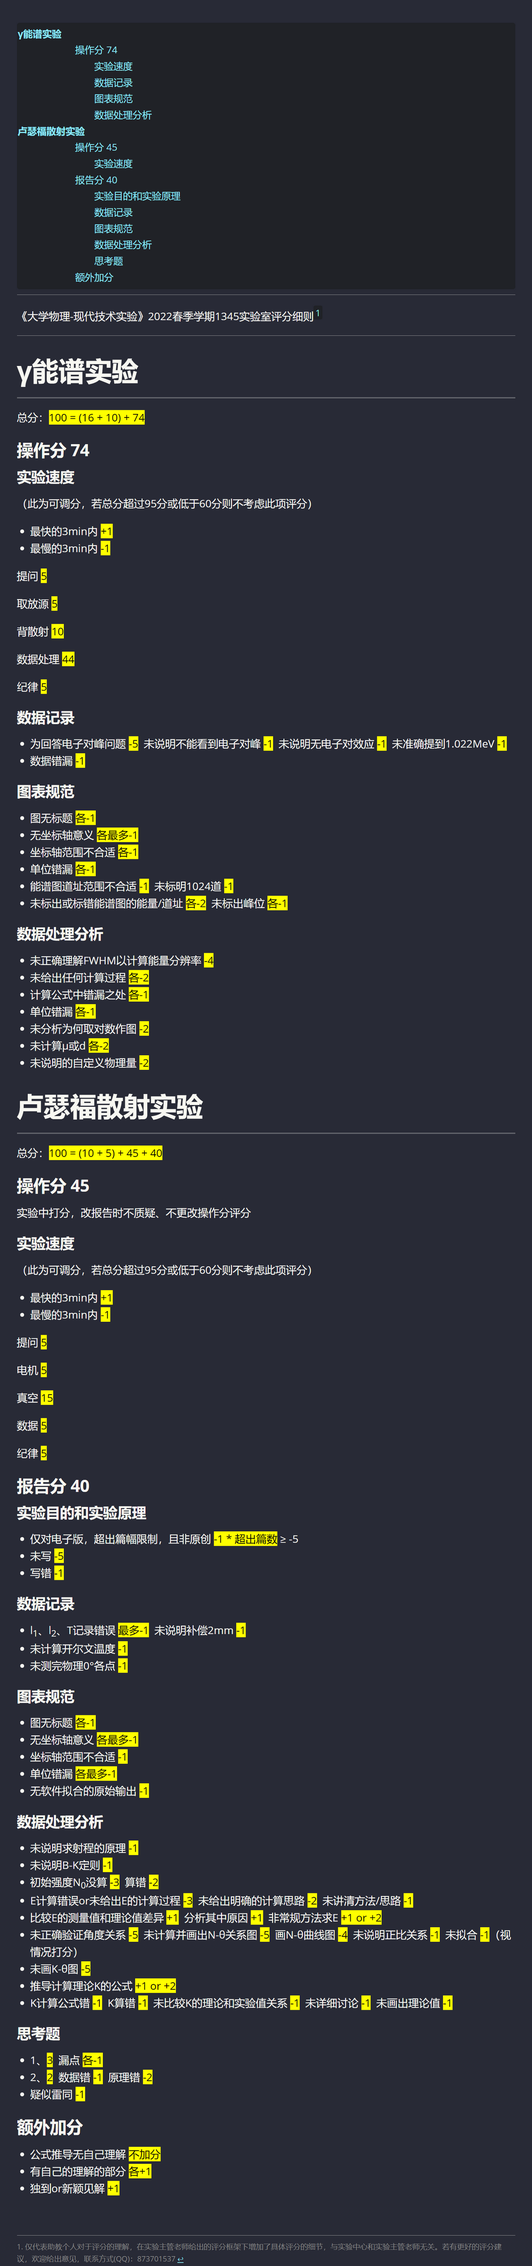
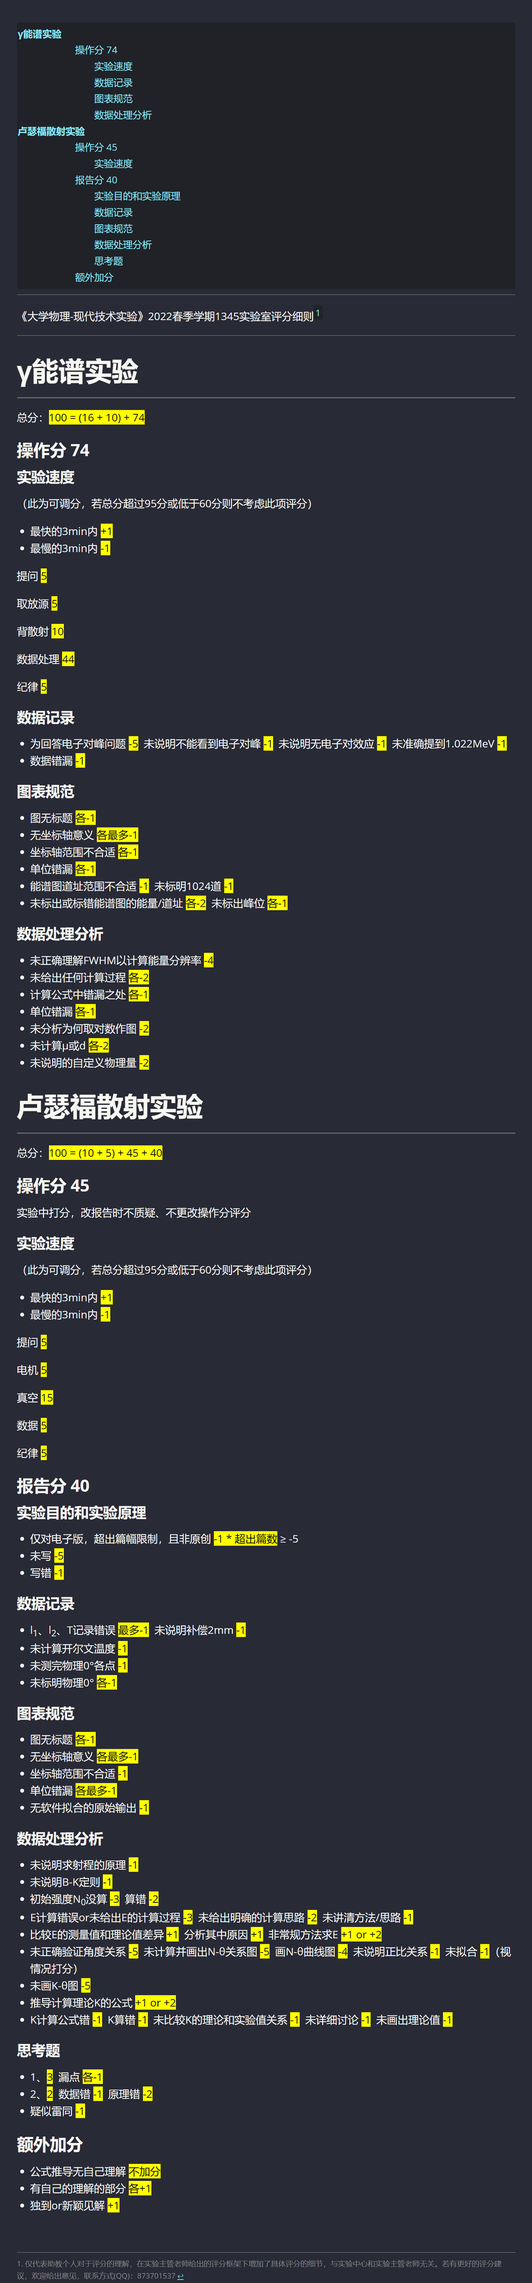
edit yezirui 2022 5 19 update details

diff --git a/ScoringRule-1345-2022-y.html b/ScoringRule-1345-2022-y.html
@@ -1,5 +1,5 @@
 <!doctype html>
-<html style='font-size:20px !important'>
+<html>
 <head>
 <meta charset='UTF-8'><meta name='viewport' content='width=device-width initial-scale=1'>
 
@@ -2041,10 +2041,10 @@ kbd {
 }
 
 
-</style><title>ScoringRule-1345-2022-y</title>
+</style><title>Readme</title>
 </head>
 <body class='typora-export os-windows typora-export-show-outline typora-export-no-collapse-outline'><div class='typora-export-content'>
-<div class="typora-export-sidebar"><div class="outline-content"><li class="outline-item-wrapper outline-h1"><div class="outline-item"><span class="outline-expander"></span><a class="outline-label" href="#γ能谱实验">γ能谱实验</a></div><ul class="outline-children"><li class="outline-item-wrapper outline-h4"><div class="outline-item"><span class="outline-expander"></span><a class="outline-label" href="#操作分-74">操作分 74</a></div><ul class="outline-children"><li class="outline-item-wrapper outline-h5"><div class="outline-item"><span class="outline-expander"></span><a class="outline-label" href="#实验速度-1">实验速度</a></div><ul class="outline-children"></ul></li><li class="outline-item-wrapper outline-h5"><div class="outline-item"><span class="outline-expander"></span><a class="outline-label" href="#数据记录-1">数据记录</a></div><ul class="outline-children"></ul></li><li class="outline-item-wrapper outline-h5"><div class="outline-item"><span class="outline-expander"></span><a class="outline-label" href="#图表规范-1">图表规范</a></div><ul class="outline-children"></ul></li><li class="outline-item-wrapper outline-h5"><div class="outline-item"><span class="outline-expander"></span><a class="outline-label" href="#数据处理分析-1">数据处理分析</a></div><ul class="outline-children"></ul></li></ul></li></ul></li><li class="outline-item-wrapper outline-h1"><div class="outline-item"><span class="outline-expander"></span><a class="outline-label" href="#卢瑟福散射实验">卢瑟福散射实验</a></div><ul class="outline-children"><li class="outline-item-wrapper outline-h4"><div class="outline-item"><span class="outline-expander"></span><a class="outline-label" href="#操作分-45">操作分 45</a></div><ul class="outline-children"><li class="outline-item-wrapper outline-h5"><div class="outline-item"><span class="outline-expander"></span><a class="outline-label" href="#实验速度-2">实验速度</a></div><ul class="outline-children"></ul></li></ul></li><li class="outline-item-wrapper outline-h4"><div class="outline-item"><span class="outline-expander"></span><a class="outline-label" href="#报告分-40">报告分 40</a></div><ul class="outline-children"><li class="outline-item-wrapper outline-h5"><div class="outline-item"><span class="outline-expander"></span><a class="outline-label" href="#实验目的和实验原理">实验目的和实验原理</a></div><ul class="outline-children"></ul></li><li class="outline-item-wrapper outline-h5"><div class="outline-item"><span class="outline-expander"></span><a class="outline-label" href="#数据记录-2">数据记录</a></div><ul class="outline-children"></ul></li><li class="outline-item-wrapper outline-h5"><div class="outline-item"><span class="outline-expander"></span><a class="outline-label" href="#图表规范-2">图表规范</a></div><ul class="outline-children"></ul></li><li class="outline-item-wrapper outline-h5"><div class="outline-item"><span class="outline-expander"></span><a class="outline-label" href="#数据处理分析-2">数据处理分析</a></div><ul class="outline-children"></ul></li><li class="outline-item-wrapper outline-h5"><div class="outline-item"><span class="outline-expander"></span><a class="outline-label" href="#思考题">思考题</a></div><ul class="outline-children"></ul></li></ul></li><li class="outline-item-wrapper outline-h4"><div class="outline-item"><span class="outline-expander"></span><a class="outline-label" href="#额外加分">额外加分</a></div><ul class="outline-children"></ul></li></ul></li></div></div><div id='write'  class=''><div class='md-toc' mdtype='toc'><p class="md-toc-content" role="list"><span role="listitem" class="md-toc-item md-toc-h1" data-ref="n5"><a class="md-toc-inner" href="#γ能谱实验">γ能谱实验</a></span><span role="listitem" class="md-toc-item md-toc-h4" data-ref="n303"><a class="md-toc-inner" href="#操作分-74">操作分 74</a></span><span role="listitem" class="md-toc-item md-toc-h5" data-ref="n305"><a class="md-toc-inner" href="#实验速度-1">实验速度</a></span><span role="listitem" class="md-toc-item md-toc-h5" data-ref="n326"><a class="md-toc-inner" href="#数据记录-1">数据记录</a></span><span role="listitem" class="md-toc-item md-toc-h5" data-ref="n334"><a class="md-toc-inner" href="#图表规范-1">图表规范</a></span><span role="listitem" class="md-toc-item md-toc-h5" data-ref="n346"><a class="md-toc-inner" href="#数据处理分析-1">数据处理分析</a></span><span role="listitem" class="md-toc-item md-toc-h1" data-ref="n7"><a class="md-toc-inner" href="#卢瑟福散射实验">卢瑟福散射实验</a></span><span role="listitem" class="md-toc-item md-toc-h4" data-ref="n9"><a class="md-toc-inner" href="#操作分-45">操作分 45</a></span><span role="listitem" class="md-toc-item md-toc-h5" data-ref="n10"><a class="md-toc-inner" href="#实验速度-2">实验速度</a></span><span role="listitem" class="md-toc-item md-toc-h4" data-ref="n21"><a class="md-toc-inner" href="#报告分-40">报告分 40</a></span><span role="listitem" class="md-toc-item md-toc-h5" data-ref="n22"><a class="md-toc-inner" href="#实验目的和实验原理">实验目的和实验原理</a></span><span role="listitem" class="md-toc-item md-toc-h5" data-ref="n30"><a class="md-toc-inner" href="#数据记录-2">数据记录</a></span><span role="listitem" class="md-toc-item md-toc-h5" data-ref="n38"><a class="md-toc-inner" href="#图表规范-2">图表规范</a></span><span role="listitem" class="md-toc-item md-toc-h5" data-ref="n48"><a class="md-toc-inner" href="#数据处理分析-2">数据处理分析</a></span><span role="listitem" class="md-toc-item md-toc-h5" data-ref="n66"><a class="md-toc-inner" href="#思考题">思考题</a></span><span role="listitem" class="md-toc-item md-toc-h4" data-ref="n74"><a class="md-toc-inner" href="#额外加分">额外加分</a></span></p></div><hr /><p><span>《大学物理-现代技术实验》2022春季学期1345实验室评分细则</span><sup class='md-footnote'><a href='#dfref-footnote-1' name='ref-footnote-1'>1</a></sup></p><hr /><h1 id='γ能谱实验'><span>γ能谱实验</span></h1><p><span>总分：</span><mark><span>100 = (16 + 10) + 74</span></mark></p><h4 id='操作分-74'><span>操作分 74</span></h4><h5 id='实验速度-1'><span>实验速度</span></h5><p><span>（此为可调分，若总分超过95分或低于60分则不考虑此项评分）</span></p><ul><li><span>最快的3min内 </span><mark><span>+1</span></mark></li><li><span>最慢的3min内 </span><mark><span>-1</span></mark></li></ul><p><span>提问 </span><mark><span>5</span></mark></p><p><span>取放源 </span><mark><span>5</span></mark></p><p><span>背散射 </span><mark><span>10</span></mark></p><p><span>数据处理 </span><mark><span>44</span></mark></p><p><span>纪律 </span><mark><span>5</span></mark></p><h5 id='数据记录-1'><span>数据记录</span></h5><ul><li><span>为回答电子对峰问题 </span><mark><span>-5</span></mark><span>  未说明不能看到电子对峰 </span><mark><span>-1</span></mark><span>  未说明无电子对效应 </span><mark><span>-1</span></mark><span>  未准确提到1.022MeV </span><mark><span>-1</span></mark></li><li><span>数据错漏 </span><mark><span>-1</span></mark></li></ul><h5 id='图表规范-1'><span>图表规范</span></h5><ul><li><span>图无标题 </span><mark><span>各-1</span></mark></li><li><span>无坐标轴意义 </span><mark><span>各最多-1</span></mark></li><li><span>坐标轴范围不合适 </span><mark><span>各-1</span></mark></li><li><span>单位错漏 </span><mark><span>各-1</span></mark></li><li><span>能谱图道址范围不合适 </span><mark><span>-1</span></mark><span>  未标明1024道 </span><mark><span>-1</span></mark></li><li><span>未标出或标错能谱图的能量/道址 </span><mark><span>各-2</span></mark><span>  未标出峰位 </span><mark><span>各-1</span></mark></li></ul><h5 id='数据处理分析-1'><span>数据处理分析</span></h5><ul><li><span>未正确理解FWHM以计算能量分辨率 </span><mark><span>-4</span></mark></li><li><span>未给出任何计算过程 </span><mark><span>各-2</span></mark></li><li><span>计算公式中错漏之处 </span><mark><span>各-1</span></mark></li><li><span>单位错漏 </span><mark><span>各-1</span></mark></li><li><span>未分析为何取对数作图 </span><mark><span>-2</span></mark></li><li><span>未计算μ或d </span><mark><span>各-2</span></mark></li><li><span>未说明的自定义物理量 </span><mark><span>-2</span></mark></li></ul><h1 id='卢瑟福散射实验'><span>卢瑟福散射实验</span></h1><p><span>总分：</span><mark><span>100 = (10 + 5) + 45 + 40</span></mark></p><h4 id='操作分-45'><span>操作分 45</span></h4><p><span>实验中打分，改报告时不质疑、不更改操作分评分</span></p><h5 id='实验速度-2'><span>实验速度</span></h5><p><span>（此为可调分，若总分超过95分或低于60分则不考虑此项评分）</span></p><ul><li><span>最快的3min内 </span><mark><span>+1</span></mark></li><li><span>最慢的3min内 </span><mark><span>-1</span></mark></li></ul><p><span>提问 </span><mark><span>5</span></mark></p><p><span>电机 </span><mark><span>5</span></mark></p><p><span>真空 </span><mark><span>15</span></mark></p><p><span>数据 </span><mark><span>5</span></mark></p><p><span>纪律 </span><mark><span>5</span></mark></p><h4 id='报告分-40'><span>报告分 40</span></h4><h5 id='实验目的和实验原理'><span>实验目的和实验原理</span></h5><ul><li><span>仅对电子版，超出篇幅限制，且非原创 </span><mark><span>-1 * 超出篇数</span></mark><span> ≥ -5</span></li><li><span>未写 </span><mark><span>-5</span></mark></li><li><span>写错 </span><mark><span>-1</span></mark></li></ul><h5 id='数据记录-2'><span>数据记录</span></h5><ul><li><span>l</span><sub><span>1</span></sub><span>、l</span><sub><span>2</span></sub><span>、T记录错误 </span><mark><span>最多-1</span></mark><span>  未说明补偿2mm </span><mark><span>-1</span></mark></li><li><span>未计算开尔文温度 </span><mark><span>-1</span></mark></li><li><span>未测完物理0°各点 </span><mark><span>-1</span></mark></li></ul><h5 id='图表规范-2'><span>图表规范</span></h5><ul><li><span>图无标题 </span><mark><span>各-1</span></mark></li><li><span>无坐标轴意义 </span><mark><span>各最多-1</span></mark></li><li><span>坐标轴范围不合适 </span><mark><span>-1</span></mark></li><li><span>单位错漏 </span><mark><span>各最多-1</span></mark></li><li><span>无软件拟合的原始输出 </span><mark><span>-1</span></mark></li></ul><h5 id='数据处理分析-2'><span>数据处理分析</span></h5><ul><li><span>未说明求射程的原理 </span><mark><span>-1</span></mark></li><li><span>未说明B-K定则 </span><mark><span>-1</span></mark></li><li><span>初始强度N</span><sub><span>0</span></sub><span>没算 </span><mark><span>-3</span></mark><span>  算错 </span><mark><span>-2</span></mark></li><li><span>E计算错误or未给出E的计算过程 </span><mark><span>-3</span></mark><span>  未给出明确的计算思路 </span><mark><span>-2</span></mark><span>  未讲清方法/思路 </span><mark><span>-1</span></mark></li><li><span>比较E的测量值和理论值差异 </span><mark><span>+1</span></mark><span>  分析其中原因 </span><mark><span>+1</span></mark><span>  非常规方法求E </span><mark><span>+1 or +2</span></mark></li><li><span>未正确验证角度关系 </span><mark><span>-5</span></mark><span>  未计算并画出N-θ关系图 </span><mark><span>-5</span></mark><span>  画N-θ曲线图 </span><mark><span>-4</span></mark><span>  未说明正比关系 </span><mark><span>-1</span></mark><span>  未拟合 </span><mark><span>-1</span></mark><span>（视情况打分）</span></li><li><span>未画K-θ图 </span><mark><span>-5</span></mark></li><li><span>推导计算理论K的公式 </span><mark><span>+1 or +2</span></mark></li><li><span>K计算公式错 </span><mark><span>-1</span></mark><span>  K算错 </span><mark><span>-1</span></mark><span>  未比较K的理论和实验值关系 </span><mark><span>-1</span></mark><span>  未详细讨论 </span><mark><span>-1</span></mark><span>  未画出理论值 </span><mark><span>-1</span></mark></li></ul><h5 id='思考题'><span>思考题</span></h5><ul><li><span>1、</span><mark><span>3</span></mark><span>  漏点 </span><mark><span>各-1</span></mark></li><li><span>2、</span><mark><span>2</span></mark><span>  数据错 </span><mark><span>-1</span></mark><span>  原理错 </span><mark><span>-2</span></mark></li><li><span>疑似雷同 </span><mark><span>-1</span></mark></li></ul><h4 id='额外加分'><span>额外加分</span></h4><ul><li><span>公式推导无自己理解 </span><mark><span>不加分</span></mark></li><li><span>有自己的理解的部分 </span><mark><span>各+1</span></mark></li><li><span>独到or新颖见解 </span><mark><span>+1</span></mark></li></ul><p>&nbsp;</p><div class='footnotes-area'  ><hr/>
+<div class="typora-export-sidebar"><div class="outline-content"><li class="outline-item-wrapper outline-h1"><div class="outline-item"><span class="outline-expander"></span><a class="outline-label" href="#γ能谱实验">γ能谱实验</a></div><ul class="outline-children"><li class="outline-item-wrapper outline-h4"><div class="outline-item"><span class="outline-expander"></span><a class="outline-label" href="#操作分-74">操作分 74</a></div><ul class="outline-children"><li class="outline-item-wrapper outline-h5"><div class="outline-item"><span class="outline-expander"></span><a class="outline-label" href="#实验速度-1">实验速度</a></div><ul class="outline-children"></ul></li><li class="outline-item-wrapper outline-h5"><div class="outline-item"><span class="outline-expander"></span><a class="outline-label" href="#数据记录-1">数据记录</a></div><ul class="outline-children"></ul></li><li class="outline-item-wrapper outline-h5"><div class="outline-item"><span class="outline-expander"></span><a class="outline-label" href="#图表规范-1">图表规范</a></div><ul class="outline-children"></ul></li><li class="outline-item-wrapper outline-h5"><div class="outline-item"><span class="outline-expander"></span><a class="outline-label" href="#数据处理分析-1">数据处理分析</a></div><ul class="outline-children"></ul></li></ul></li></ul></li><li class="outline-item-wrapper outline-h1"><div class="outline-item"><span class="outline-expander"></span><a class="outline-label" href="#卢瑟福散射实验">卢瑟福散射实验</a></div><ul class="outline-children"><li class="outline-item-wrapper outline-h4"><div class="outline-item"><span class="outline-expander"></span><a class="outline-label" href="#操作分-45">操作分 45</a></div><ul class="outline-children"><li class="outline-item-wrapper outline-h5"><div class="outline-item"><span class="outline-expander"></span><a class="outline-label" href="#实验速度-2">实验速度</a></div><ul class="outline-children"></ul></li></ul></li><li class="outline-item-wrapper outline-h4"><div class="outline-item"><span class="outline-expander"></span><a class="outline-label" href="#报告分-40">报告分 40</a></div><ul class="outline-children"><li class="outline-item-wrapper outline-h5"><div class="outline-item"><span class="outline-expander"></span><a class="outline-label" href="#实验目的和实验原理">实验目的和实验原理</a></div><ul class="outline-children"></ul></li><li class="outline-item-wrapper outline-h5"><div class="outline-item"><span class="outline-expander"></span><a class="outline-label" href="#数据记录-2">数据记录</a></div><ul class="outline-children"></ul></li><li class="outline-item-wrapper outline-h5"><div class="outline-item"><span class="outline-expander"></span><a class="outline-label" href="#图表规范-2">图表规范</a></div><ul class="outline-children"></ul></li><li class="outline-item-wrapper outline-h5"><div class="outline-item"><span class="outline-expander"></span><a class="outline-label" href="#数据处理分析-2">数据处理分析</a></div><ul class="outline-children"></ul></li><li class="outline-item-wrapper outline-h5"><div class="outline-item"><span class="outline-expander"></span><a class="outline-label" href="#思考题">思考题</a></div><ul class="outline-children"></ul></li></ul></li><li class="outline-item-wrapper outline-h4"><div class="outline-item"><span class="outline-expander"></span><a class="outline-label" href="#额外加分">额外加分</a></div><ul class="outline-children"></ul></li></ul></li></div></div><div id='write'  class=''><div class='md-toc' mdtype='toc'><p class="md-toc-content" role="list"><span role="listitem" class="md-toc-item md-toc-h1" data-ref="n5"><a class="md-toc-inner" href="#γ能谱实验">γ能谱实验</a></span><span role="listitem" class="md-toc-item md-toc-h4" data-ref="n7"><a class="md-toc-inner" href="#操作分-74">操作分 74</a></span><span role="listitem" class="md-toc-item md-toc-h5" data-ref="n8"><a class="md-toc-inner" href="#实验速度-1">实验速度</a></span><span role="listitem" class="md-toc-item md-toc-h5" data-ref="n20"><a class="md-toc-inner" href="#数据记录-1">数据记录</a></span><span role="listitem" class="md-toc-item md-toc-h5" data-ref="n26"><a class="md-toc-inner" href="#图表规范-1">图表规范</a></span><span role="listitem" class="md-toc-item md-toc-h5" data-ref="n40"><a class="md-toc-inner" href="#数据处理分析-1">数据处理分析</a></span><span role="listitem" class="md-toc-item md-toc-h1" data-ref="n56"><a class="md-toc-inner" href="#卢瑟福散射实验">卢瑟福散射实验</a></span><span role="listitem" class="md-toc-item md-toc-h4" data-ref="n58"><a class="md-toc-inner" href="#操作分-45">操作分 45</a></span><span role="listitem" class="md-toc-item md-toc-h5" data-ref="n60"><a class="md-toc-inner" href="#实验速度-2">实验速度</a></span><span role="listitem" class="md-toc-item md-toc-h4" data-ref="n72"><a class="md-toc-inner" href="#报告分-40">报告分 40</a></span><span role="listitem" class="md-toc-item md-toc-h5" data-ref="n73"><a class="md-toc-inner" href="#实验目的和实验原理">实验目的和实验原理</a></span><span role="listitem" class="md-toc-item md-toc-h5" data-ref="n81"><a class="md-toc-inner" href="#数据记录-2">数据记录</a></span><span role="listitem" class="md-toc-item md-toc-h5" data-ref="n91"><a class="md-toc-inner" href="#图表规范-2">图表规范</a></span><span role="listitem" class="md-toc-item md-toc-h5" data-ref="n105"><a class="md-toc-inner" href="#数据处理分析-2">数据处理分析</a></span><span role="listitem" class="md-toc-item md-toc-h5" data-ref="n125"><a class="md-toc-inner" href="#思考题">思考题</a></span><span role="listitem" class="md-toc-item md-toc-h4" data-ref="n133"><a class="md-toc-inner" href="#额外加分">额外加分</a></span></p></div><hr /><p><span>《大学物理-现代技术实验》2022春季学期1345实验室评分细则</span><sup class='md-footnote'><a href='#dfref-footnote-1' name='ref-footnote-1'>1</a></sup></p><hr /><h1 id='γ能谱实验'><span>γ能谱实验</span></h1><p><span>总分：</span><mark><span>100 = (16 + 10) + 74</span></mark></p><h4 id='操作分-74'><span>操作分 74</span></h4><h5 id='实验速度-1'><span>实验速度</span></h5><p><span>（此为可调分，若总分超过95分或低于60分则不考虑此项评分）</span></p><ul><li><span>最快的3min内 </span><mark><span>+1</span></mark></li><li><span>最慢的3min内 </span><mark><span>-1</span></mark></li></ul><p><span>提问 </span><mark><span>5</span></mark></p><p><span>取放源 </span><mark><span>5</span></mark></p><p><span>背散射 </span><mark><span>10</span></mark></p><p><span>数据处理 </span><mark><span>44</span></mark></p><p><span>纪律 </span><mark><span>5</span></mark></p><h5 id='数据记录-1'><span>数据记录</span></h5><ul><li><span>未回答电子对峰问题 </span><mark><span>-5</span></mark><span>  未说明不能看到电子对峰 </span><mark><span>-1</span></mark><span>  未说明无电子对效应 </span><mark><span>-1</span></mark><span>  未准确提到1.022MeV </span><mark><span>-1</span></mark></li><li><span>数据错漏 </span><mark><span>-1</span></mark></li></ul><h5 id='图表规范-1'><span>图表规范</span></h5><ul><li><span>图无标题 </span><mark><span>各-1</span></mark></li><li><span>无坐标轴意义 </span><mark><span>各最多-1</span></mark></li><li><span>坐标轴范围不合适 </span><mark><span>各-1</span></mark></li><li><span>单位错漏 </span><mark><span>各-1</span></mark></li><li><span>能谱图道址范围不合适 </span><mark><span>-1</span></mark><span>  未标明1024道 </span><mark><span>-1</span></mark></li><li><span>未标出或标错能谱图的能量/道址 </span><mark><span>各-2</span></mark><span>  未标出峰位 </span><mark><span>各-1</span></mark></li></ul><h5 id='数据处理分析-1'><span>数据处理分析</span></h5><ul><li><span>未正确理解FWHM以计算能量分辨率 </span><mark><span>-4</span></mark></li><li><span>未给出任何计算过程 </span><mark><span>各-2</span></mark></li><li><span>计算公式中错漏之处 </span><mark><span>各-1</span></mark></li><li><span>单位错漏 </span><mark><span>各-1</span></mark></li><li><span>未分析为何取对数作图 </span><mark><span>-2</span></mark></li><li><span>未计算μ或d </span><mark><span>各-2</span></mark></li><li><span>未说明的自定义物理量 </span><mark><span>-2</span></mark></li></ul><h1 id='卢瑟福散射实验'><span>卢瑟福散射实验</span></h1><p><span>总分：</span><mark><span>100 = (10 + 5) + 45 + 40</span></mark></p><h4 id='操作分-45'><span>操作分 45</span></h4><p><span>实验中打分，改报告时不质疑、不更改操作分评分</span></p><h5 id='实验速度-2'><span>实验速度</span></h5><p><span>（此为可调分，若总分超过95分或低于60分则不考虑此项评分）</span></p><ul><li><span>最快的3min内 </span><mark><span>+1</span></mark></li><li><span>最慢的3min内 </span><mark><span>-1</span></mark></li></ul><p><span>提问 </span><mark><span>5</span></mark></p><p><span>电机 </span><mark><span>5</span></mark></p><p><span>真空 </span><mark><span>15</span></mark></p><p><span>数据 </span><mark><span>5</span></mark></p><p><span>纪律 </span><mark><span>5</span></mark></p><h4 id='报告分-40'><span>报告分 40</span></h4><h5 id='实验目的和实验原理'><span>实验目的和实验原理</span></h5><ul><li><span>仅对电子版，超出篇幅限制，且非原创 </span><mark><span>-1 * 超出篇数</span></mark><span> ≥ -5</span></li><li><span>未写 </span><mark><span>-5</span></mark></li><li><span>写错 </span><mark><span>-1</span></mark></li></ul><h5 id='数据记录-2'><span>数据记录</span></h5><ul><li><span>l</span><sub><span>1</span></sub><span>、l</span><sub><span>2</span></sub><span>、T记录错误 </span><mark><span>最多-1</span></mark><span>  未说明补偿2mm </span><mark><span>-1</span></mark></li><li><span>未计算开尔文温度 </span><mark><span>-1</span></mark></li><li><span>未测完物理0°各点 </span><mark><span>-1</span></mark></li><li><span>未标明物理0° </span><mark><span>各-1</span></mark></li></ul><h5 id='图表规范-2'><span>图表规范</span></h5><ul><li><span>图无标题 </span><mark><span>各-1</span></mark></li><li><span>无图例 </span><mark><span>各-1</span></mark></li><li><span>无坐标轴意义 </span><mark><span>各最多-1</span></mark></li><li><span>坐标轴范围不合适 </span><mark><span>-1</span></mark></li><li><span>单位错漏 </span><mark><span>各最多-1</span></mark></li><li><span>无软件拟合的原始输出 </span><mark><span>-1</span></mark></li></ul><h5 id='数据处理分析-2'><span>数据处理分析</span></h5><ul><li><span>未说明求射程的原理 </span><mark><span>-1</span></mark></li><li><span>未说明B-K定则 </span><mark><span>-1</span></mark></li><li><span>初始强度N</span><sub><span>0</span></sub><span>没算 </span><mark><span>-3</span></mark><span>  算错 </span><mark><span>-2</span></mark></li><li><span>E计算错误or未给出E的计算过程 </span><mark><span>-3</span></mark><span>  未给出明确的计算思路 </span><mark><span>-2</span></mark><span>  未讲清方法/思路 </span><mark><span>-1</span></mark></li><li><span>比较E的测量值和理论值差异 </span><mark><span>+1</span></mark><span>  分析其中原因 </span><mark><span>+1</span></mark><span>  非常规方法求E </span><mark><span>+1 or +2</span></mark></li><li><span>未正确验证角度关系 </span><mark><span>-5</span></mark><span>  未计算并画出N-θ关系图 </span><mark><span>-5</span></mark><span>  画N-θ曲线图 </span><mark><span>-4</span></mark><span>  未说明正比关系 </span><mark><span>-1</span></mark><span>  未拟合 </span><mark><span>-1</span></mark><span>（视情况打分）</span></li><li><span>未画K-θ图 </span><mark><span>-5</span></mark></li><li><span>推导计算理论K的公式 </span><mark><span>+1 or +2</span></mark></li><li><span>K计算公式错 </span><mark><span>-1</span></mark><span>  K算错 </span><mark><span>-1</span></mark><span>  未比较K的理论和实验值关系 </span><mark><span>-1</span></mark><span>  未详细讨论 </span><mark><span>-1</span></mark><span>  未画出理论值 </span><mark><span>-2</span></mark></li></ul><h5 id='思考题'><span>思考题</span></h5><ul><li><span>1、</span><mark><span>3</span></mark><span>  漏点 </span><mark><span>各-1</span></mark></li><li><span>2、</span><mark><span>2</span></mark><span>  数据错 </span><mark><span>-1</span></mark><span>  原理错 </span><mark><span>-2</span></mark></li><li><span>疑似雷同 </span><mark><span>-1</span></mark></li></ul><h4 id='额外加分'><span>额外加分</span></h4><ul><li><span>公式推导无自己理解 </span><mark><span>不加分</span></mark></li><li><span>有自己的理解的部分 </span><mark><span>各+1</span></mark></li><li><span>独到or新颖见解 </span><mark><span>+1</span></mark></li></ul><p>&nbsp;</p><div class='footnotes-area'  ><hr/>
 <div class='footnote-line'><span class='md-fn-count'>1</span> <span>仅代表助教个人对于评分的理解，在实验主管老师给出的评分框架下增加了具体评分的细节，与实验中心和实验主管老师无关。若有更好的评分建议，欢迎给出意见，联系方式(QQ)：873701537</span> <a name='dfref-footnote-1' href='#ref-footnote-1' title='回到文档' class='reversefootnote' >↩</a></div></div></div></div>
 
 <script>(function(){var e=document.body.parentElement,t=[],n=null,i=document.body.classList.contains("typora-export-collapse-outline"),r=function(e,t,n){document.addEventListener(e,function(e){if(!e.defaultPrevented)for(var i=e.target;i&&i!=this;i=i.parentNode)if(i.matches(t)){!1===n.call(i,e)&&(e.preventDefault(),e.stopPropagation());break}},!1)};function o(){return e.scrollTop}r("click",".outline-expander",function(e){var t=this.closest(".outline-item-wrapper").classList;return t.contains("outline-item-open")?t.remove("outline-item-open"):t.add("outline-item-open"),d(),!1}),r("click",".outline-item",function(e){var t=this.querySelector(".outline-label");if(location.hash="#"+t.getAttribute("href"),i){var n=this.closest(".outline-item-wrapper").classList;n.contains("outline-item-open")||n.add("outline-item-open"),c(),n.add("outline-item-active")}});var a,s,l=function(){var e=o();n=null;for(var i=0;i<t.length&&t[i][1]-e<60;i++)n=t[i]},c=function(){document.querySelectorAll(".outline-item-active").forEach(e=>e.classList.remove("outline-item-active")),document.querySelectorAll(".outline-item-single.outline-item-open").forEach(e=>e.classList.remove("outline-item-open"))},d=function(){if(n){c();var e=document.querySelector('.outline-label[href="#'+(CSS.escape?CSS.escape(n[0]):n[0])+'"]');if(e)if(i){var t=e.closest(".outline-item-open>ul>.outline-item-wrapper");if(t)t.classList.add("outline-item-active");else{for(var r=(e=e.closest(".outline-item-wrapper")).parentElement.closest(".outline-item-wrapper");r;)r=(e=r).parentElement.closest(".outline-item-wrapper");e.classList.add("outline-item-active")}}else e.closest(".outline-item-wrapper").classList.add("outline-item-active")}};window.addEventListener("scroll",function(e){a&&clearTimeout(a),a=setTimeout(function(){l(),d()},300)});var u=function(){s=setTimeout(function(){!function(){t=[];var e=o();document.querySelector("#write").querySelectorAll("h1, h2, h3, h4, h5, h6").forEach(n=>{var i=n.getAttribute("id");t.push([i,e+n.getBoundingClientRect().y])})}(),l(),d()},300)};window.addEventListener("resize",function(e){s&&clearTimeout(s),u()}),u()})();</script></body>

diff --git a/Readme.md b/Readme.md
@@ -31,7 +31,7 @@
 
 ##### 数据记录
 
-- 为回答电子对峰问题 ==-5==  未说明不能看到电子对峰 ==-1==  未说明无电子对效应 ==-1==  未准确提到1.022MeV ==-1==
+- 未回答电子对峰问题 ==-5==  未说明不能看到电子对峰 ==-1==  未说明无电子对效应 ==-1==  未准确提到1.022MeV ==-1==
 - 数据错漏 ==-1==
 
 ##### 图表规范
@@ -91,10 +91,12 @@
 - l~1~、l~2~、T记录错误 ==最多-1==  未说明补偿2mm ==-1==
 - 未计算开尔文温度 ==-1==
 - 未测完物理0°各点 ==-1==
+- 未标明物理0° ==各-1==
 
 ##### 图表规范
 
 - 图无标题 ==各-1==
+- 无图例 ==各-1==
 - 无坐标轴意义 ==各最多-1==
 - 坐标轴范围不合适 ==-1==
 - 单位错漏 ==各最多-1==
@@ -110,7 +112,7 @@
 - 未正确验证角度关系 ==-5==  未计算并画出N-θ关系图 ==-5==  画N-θ曲线图 ==-4==  未说明正比关系 ==-1==  未拟合 ==-1==（视情况打分）
 - 未画K-θ图 ==-5==
 - 推导计算理论K的公式 ==+1 or +2==
-- K计算公式错 ==-1==  K算错 ==-1==  未比较K的理论和实验值关系 ==-1==  未详细讨论 ==-1==  未画出理论值 ==-1==
+- K计算公式错 ==-1==  K算错 ==-1==  未比较K的理论和实验值关系 ==-1==  未详细讨论 ==-1==  未画出理论值 ==-2==
 
 ##### 思考题
 
